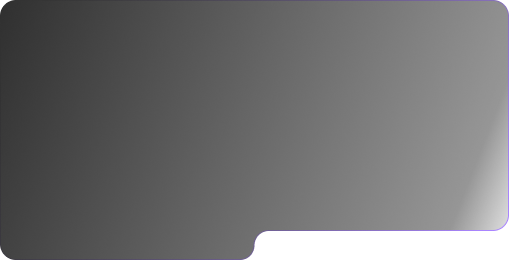
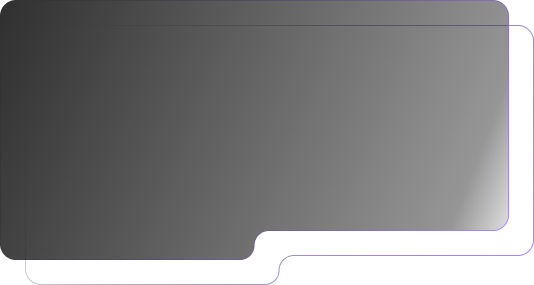
moon animation

Changed region(s): [[0.0, 0.0, 1.0, 1.0], [0.0, 0.0, 0.0295, 0.0308]]

diff --git a/src/components/animationMoon/styled.js b/src/components/animationMoon/styled.js
@@ -1,4 +1,4 @@
-import styled from 'styled-components';
+import styled, { keyframes } from 'styled-components';
 
 export const StyledUl = styled.ul`
     display: flex;
@@ -24,3 +24,44 @@ export const SubTitle = styled.h6`
 export const BoxesText = styled.p`
     color: rgba(255, 255, 255, 1);
 `
+
+export const ImgMoon = styled.img`
+`
+
+export const rotateAnimation = keyframes`
+    0% {
+        transform: perspective(1000px) rotateY(360deg) rotateX(15deg);
+    }
+    100% {
+        transform: perspective(1000px) rotateY(0deg) rotateX(15deg);
+    }
+`;
+
+export const Section = styled.section`
+    display: flex;
+    justify-content: center;
+    align-items: center;
+    min-height: 100vh;
+    transform-style: preserve-3d;
+`;
+
+export const Moon = styled.div`
+    position: absolute;
+`;
+
+export const Circle = styled.div`
+    transform-style: preserve-3d;
+    animation: ${rotateAnimation} 10s linear infinite;
+`;
+
+export const Span = styled.span`
+    position: absolute;
+    top: 0;
+    left: 0;
+    color: rgba(147, 101, 255, 1);
+    font-size: 5em;
+    transform-origin: center;
+    transform-style: preserve-3d;
+    padding: 5px 11px;
+    transform: rotateY(calc(${props => props.index} * calc(360deg / 39))) translateZ(450px);
+`;

diff --git a/src/components/animationMoon/Moon.jsx b/src/components/animationMoon/Moon.jsx
@@ -1,0 +1,25 @@
+import React from 'react'
+import { Section, Moon, Circle, Span, ImgMoon } from './styled'
+import ImgMoonBear from '../../assets/main/moonWithBear.png'
+
+const AnimMoon = () => {
+    const text = "LETS MAKE THE INTERNET MORE COMFORTABLE";
+
+    return (
+        <Section>
+            <Moon>
+                <ImgMoon src={ImgMoonBear} alt='moon' />
+            </Moon>
+            <Circle>
+                {text.split('').map((char, index) => (
+                    <Span key={index} index={index + 1}>
+                        {char}
+                    </Span>
+                ))}
+            </Circle>
+        </Section>
+    );
+}
+
+
+export default AnimMoon

diff --git a/src/components/hero/styled.js b/src/components/hero/styled.js
@@ -1,7 +1,6 @@
 import styled from 'styled-components';
 import { FaArrowRightLong } from "react-icons/fa6";
-import imgGrayBackground from '../../assets/main/grayBlock.png';
-import imgBorderGrayBlock from '../../assets/main/borderGrayBlock.png';
+import imgGrayBlock from '../../assets/main/grayBlock.png';
 
 export const HeroSection = styled.section`
 
@@ -48,8 +47,7 @@ export const GrayBlock = styled.div`
     font-family: "Inter", sans-serif;
     padding: 23px;
     margin-left: 130px;
-    background-image: url(${imgGrayBackground});
-    /* background-image: url(${imgBorderGrayBlock}); */
+    background-image: url(${imgGrayBlock});
     background-size: cover;
 `
 

diff --git a/src/components/main/Main.jsx b/src/components/main/Main.jsx
@@ -13,7 +13,7 @@ const Main = () => {
       <Hero/>
       <ProductList/>
       <MiniBoxes/>
-      {/* <Moon /> */}
+      <Moon />
       <Contact />
     </StyledMain>
   )
